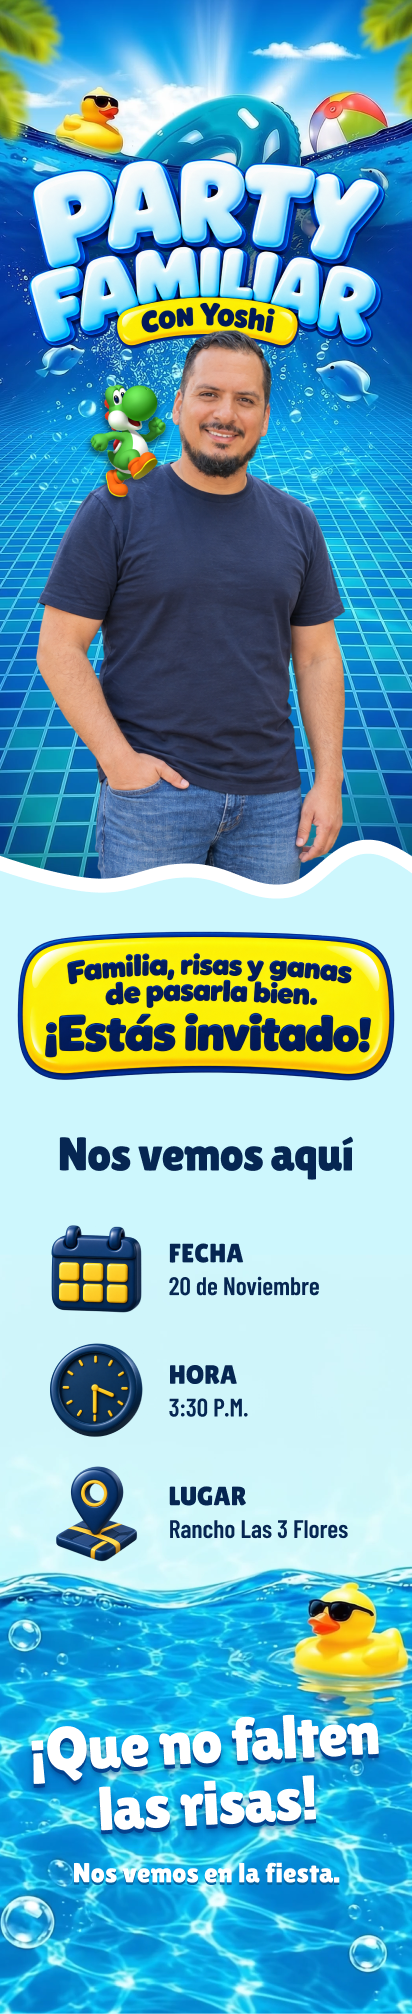
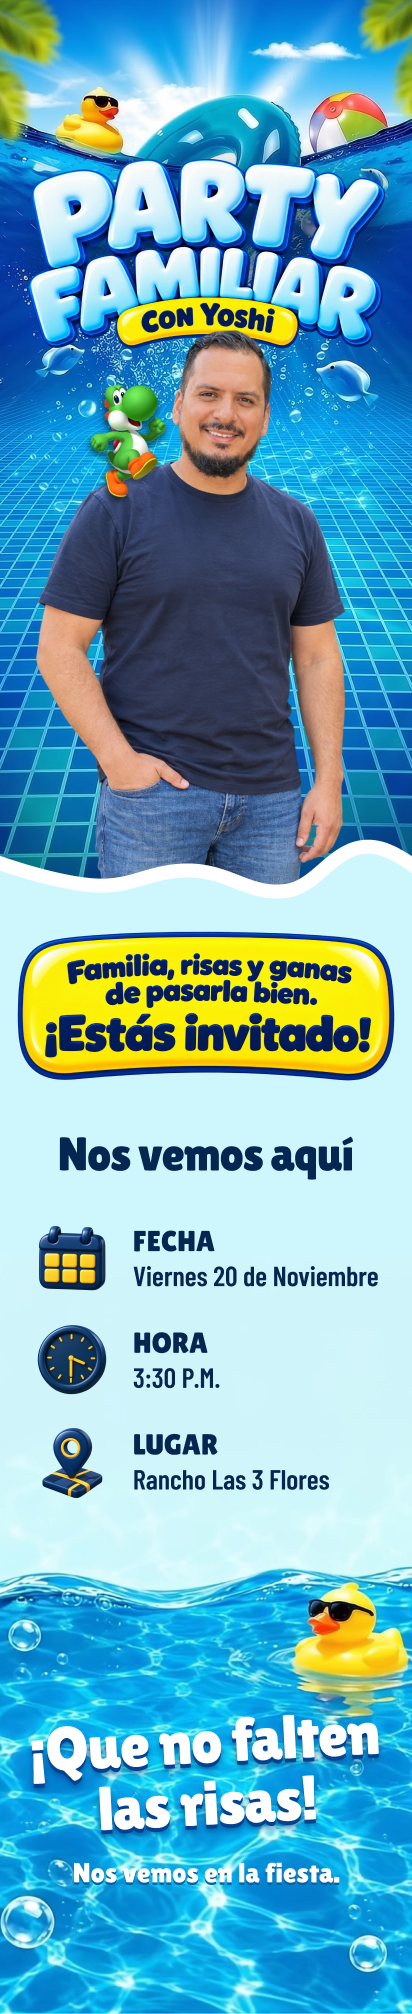
Detalles: cambios de Figma en Día / Hora / Lugar (72:94)
- "Viernes 20 de Noviembre" (también en la descripción de WhatsApp)
- Íconos de 105 a 77.806; filas de 83.646 con 18.031 entre ellas y 22.038 de ícono a texto
- Etiqueta Lilita 29.051/31.956 y valor Barlow 27.798/30.022 (alto 33.741, padding 3.005)
- La lista mide lo que su fila más ancha (345.844 en Figma) y va centrada, como el auto-layout
- qa/referencia/home@1x y @2x actualizados desde Figma

QA contra el Figma nuevo: home 4.55; cada fila a ±0.5 px; 13 tamaños y animaciones sin problemas.

Changed region(s): [[0.0874, 0.5849, 0.932, 0.8004]]

diff --git a/src/data/evento.ts b/src/data/evento.ts
@@ -1,7 +1,7 @@
 // Textos de la invitación. Para cambiar un dato basta con editar aquí.
 export const evento = {
   titulo: 'Party Familiar con Yoshi',
-  descripcion: 'Party Familiar con Yoshi · 20 de noviembre · 3:30 p.m.', // vista previa de WhatsApp
+  descripcion: 'Party Familiar con Yoshi · Viernes 20 de noviembre · 3:30 p.m.', // vista previa de WhatsApp
 
   // Intro
   instruccion: ['Pero primero…', 'abre los churros.'],
@@ -9,7 +9,7 @@ export const evento = {
 
   // Detalles
   encabezadoDetalles: 'Nos vemos aquí',
-  fecha: '20 de Noviembre',
+  fecha: 'Viernes 20 de Noviembre',
   hora: '3:30 P.M.',
   lugar: 'Rancho Las 3 Flores',
 
